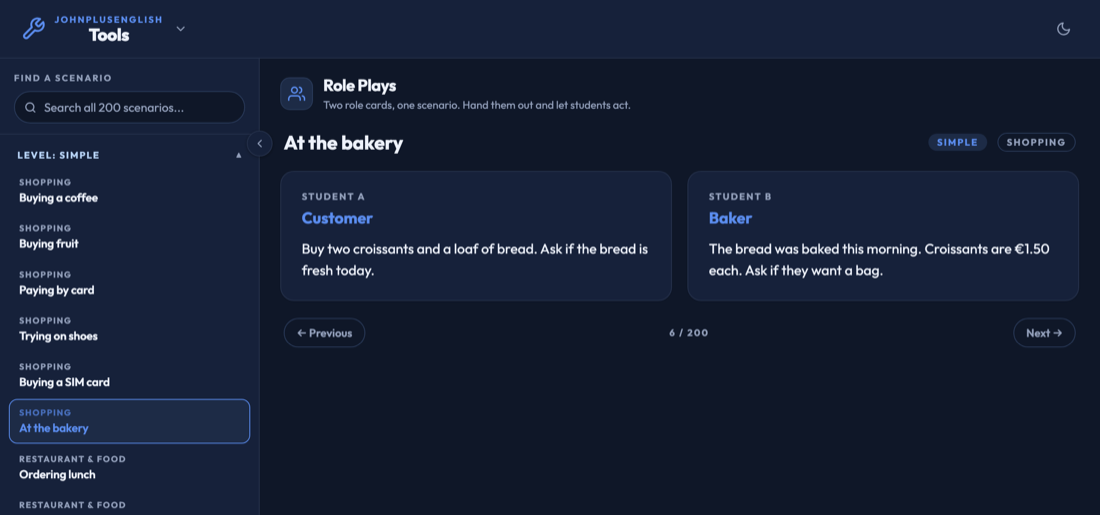
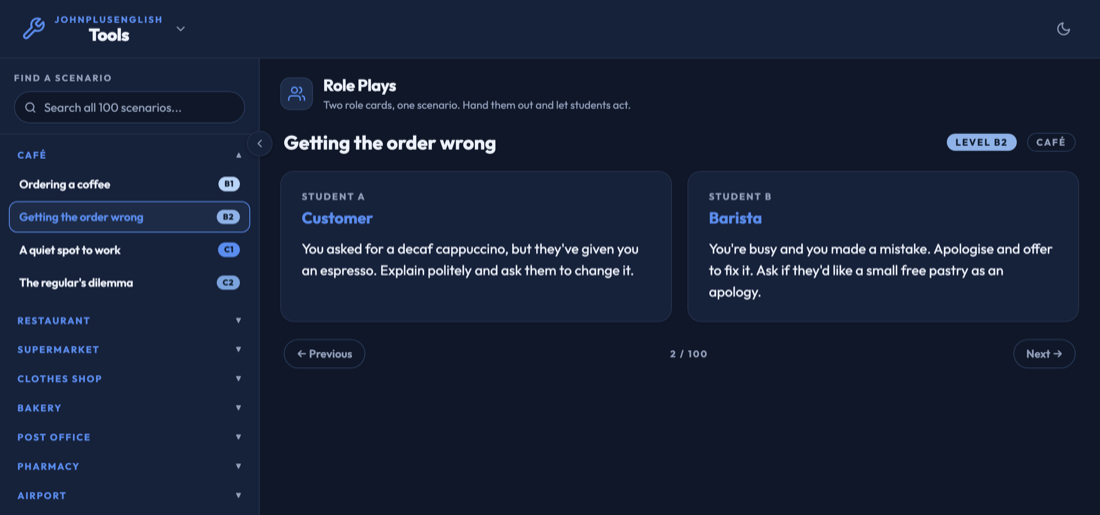
Role Plays: 100 curated scenarios, grouped by setting, at B1-C2
Restructure John asked for. Sidebar now groups by SETTING (Café,
Restaurant, Airport, Job interview, Doctor's appointment and 20
more) rather than by level. Within each setting, four role plays
cover CEFR levels B1, B2, C1 and C2 in order — so the same scene
scales from a customer ordering a coffee (B1) to a long-time
customer challenging the new owner of their favourite café (C2).

Each level takes the same blue scale as the Debate Builder — B1
#6b8cd6, B2 #3b6ec4, C1 #2563eb, C2 #1e3a8a — carried through as a
small pill next to each item in the sidebar and as a full level
badge in the main pane header, plus flipped for dark mode so the
pills stay legible on navy.

Content is fresh, not re-labelled from the old Simple/Everyday/
Advanced/Fun set — those levels don't map cleanly to CEFR (Fun in
particular didn't). Every scenario tries to give both students a
clear goal and a bit of tension between them so the conversation
has somewhere to go.

Search still works, still bypasses grouping when active. First
setting expanded by default so the sidebar isn't a wall of 25
collapsed headers on first load; the currently selected scenario's
group auto-expands so the active item is always visible.

diff --git a/index.html b/index.html
@@ -290,7 +290,7 @@ a.btn{text-decoration:none}
             <div class="tagline">Two role cards, one scenario. Hand them out and let students act.</div>
           </div>
         </div>
-        <p class="lede">Two hundred pair role plays across four levels: Simple, Everyday, Advanced and Fun. Pick a scenario from the sidebar, and the two cards appear side by side ready to hand one to each student. Search across every prompt when you want a specific situation.</p>
+        <p class="lede">A hundred pair role plays grouped by setting: café, restaurant, airport, job interview, doctor and twenty more. Each setting carries the same scene at four CEFR levels (B1, B2, C1, C2), so you can pitch the same situation to any class you teach.</p>
         <div class="split">
           <div class="features">
             <div class="feature">
@@ -299,7 +299,7 @@ a.btn{text-decoration:none}
             </div>
             <div class="feature">
               <span class="fi"><svg viewBox="0 0 24 24" fill="none" stroke="currentColor" stroke-linecap="round" stroke-linejoin="round" aria-hidden="true" stroke-width="2"><rect x="3" y="3" width="7.5" height="7.5" rx="1.6"/><rect x="13.5" y="3" width="7.5" height="7.5" rx="1.6"/><rect x="3" y="13.5" width="7.5" height="7.5" rx="1.6"/><rect x="13.5" y="13.5" width="7.5" height="7.5" rx="1.6"/></svg></span>
-              <div><h3>Four levels, sorted</h3><p>Simple, Everyday, Advanced and Fun grouped in the sidebar, most useful for the level in front of you.</p></div>
+              <div><h3>Twenty-five settings</h3><p>Café, restaurant, airport, job interview, doctor and more. Each setting carries the same scene at B1, B2, C1 and C2.</p></div>
             </div>
             <div class="feature">
               <span class="fi"><svg viewBox="0 0 24 24" fill="none" stroke="currentColor" stroke-linecap="round" stroke-linejoin="round" aria-hidden="true" stroke-width="2"><path d="M4 19.5A2.5 2.5 0 0 1 6.5 17H20"/><path d="M6.5 2H20v20H6.5A2.5 2.5 0 0 1 4 19.5v-15A2.5 2.5 0 0 1 6.5 2z"/></svg></span>

diff --git a/build.py b/build.py
@@ -130,17 +130,17 @@ TOOLS = [
         'name': 'Role Plays',
         'icon': USERS,
         'tagline': 'Two role cards, one scenario. Hand them out and let students act.',
-        'desc': ('Two hundred pair role plays across four levels: Simple, Everyday, Advanced '
-                 'and Fun. Pick a scenario from the sidebar, and the two cards appear side by '
-                 'side ready to hand one to each student. Search across every prompt when you '
-                 'want a specific situation.'),
-        'meta': ('Two hundred pair role plays for English speaking practice, across four '
-                 'levels, ready to hand a card to each student.'),
+        'desc': ('A hundred pair role plays grouped by setting: café, restaurant, airport, '
+                 'job interview, doctor and twenty more. Each setting carries the same scene '
+                 'at four CEFR levels (B1, B2, C1, C2), so you can pitch the same situation '
+                 'to any class you teach.'),
+        'meta': ('A hundred pair role plays for English speaking practice, grouped by setting '
+                 'and pitched at B1, B2, C1 and C2.'),
         'features': [
             (USERS, 'Two cards, one scenario',
              'Student A and Student B side by side, each with their own situation to work from.'),
-            (GRID, 'Four levels, sorted',
-             'Simple, Everyday, Advanced and Fun grouped in the sidebar, most useful for the level in front of you.'),
+            (GRID, 'Twenty-five settings',
+             'Café, restaurant, airport, job interview, doctor and more. Each setting carries the same scene at B1, B2, C1 and C2.'),
             (BOOK, 'Search across the lot',
              'Type a keyword and every role and scenario searches at once.'),
         ],

diff --git a/make_preview.py b/make_preview.py
@@ -45,7 +45,7 @@ SEEDS = {
       if (!document.getElementById('deck').children.length) throw new Error('deck is empty');
     """,
     'role-plays': """
-      rpSelect(6);
+      rpSelect(2);
       if (document.getElementById('rpView').style.display === 'none') throw new Error('role-plays view is hidden');
     """,
 }
@@ -54,7 +54,7 @@ SEEDS = {
 PROOF = {
     'debate-builder': 'AI IN THE CLASSROOM',
     'speaking-topics': 'deck',
-    'role-plays': 'STUDENT A',
+    'role-plays': 'Student A',
 }
 
 WRAPPER = """